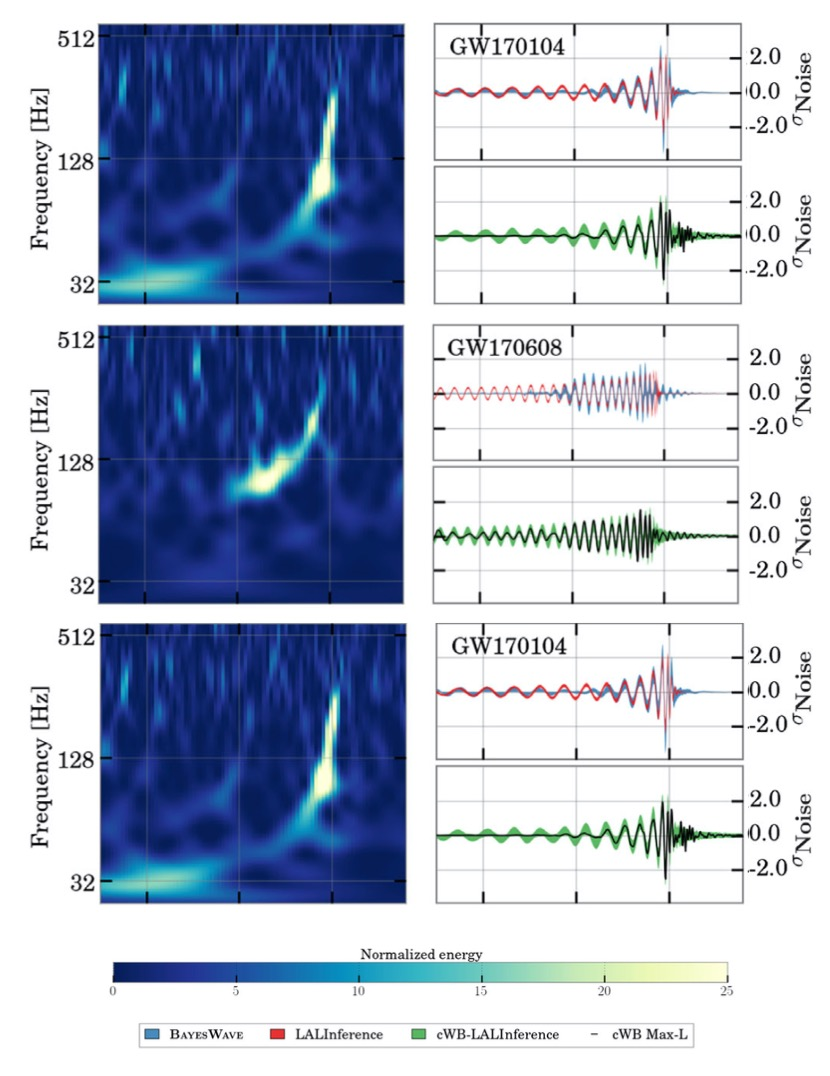
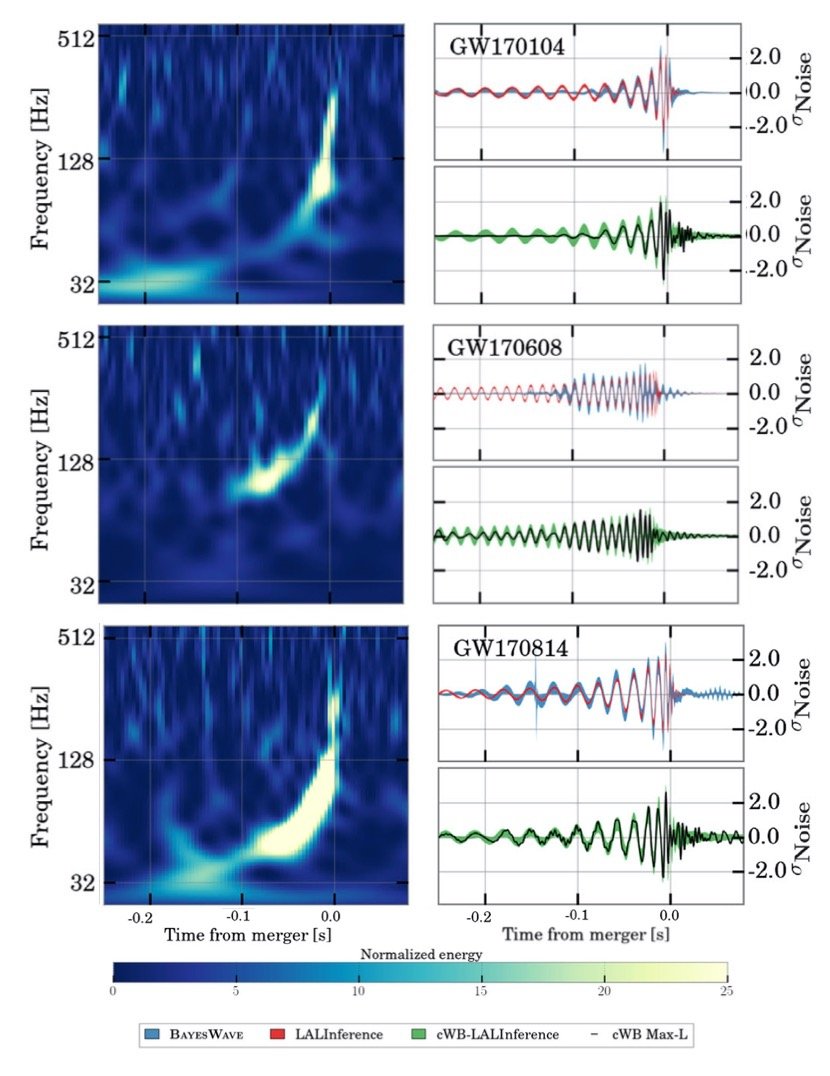
GW190521

Changed region(s): [[0.1205, 0.552, 0.994, 0.8894]]

diff --git a/thesis.tex b/thesis.tex
@@ -1611,7 +1611,7 @@ We are grateful for computational resources provided by Cardiff University, and 
 	ten BBH mergers \cite{14, 52, 58-60} and one BNS merger \cite{61}.  In addition, fourteen marginal triggers were also found \cite{13}.
 	Notable events in this catalog are the first observed event GW150914 \cite{52},
 	the first three-detector event GW170814 \cite{60} and the BNS
-	coalescence GW170817 \cite{61}, the first case in which electromagnetic counterparts to a GW event 
+	coalescence GW170817 \cite{62}, the first case in which electromagnetic counterparts to a GW event 
 	were observed \cite{15}.
         The analyses of O3 data is still in progress, but \fpg{...} events have already been announced.  These are: \fpg{...}.
 
@@ -1768,16 +1768,17 @@ Two more GW signals were detected during O1, and both were consistent with a BBH
 	In addition to the instrument upgrades, developments were also carried out on
 	the search algorithms.
  
-	Of the eight GW signals detected during O2 (GW170104, GW170608, GW170729, GW170809, GW170814, GW170817, GW170818 and GW170823), the five August events were localized by the three detector LHO, LLO and Virgo (HLV) network.  Additionally, GW170104, GW170814, GW170608, and GW170817 where published, in that order, as single events. \fpg{Qui dovresti citare i 4 papers.}  
+	Of the eight GW signals detected during O2 (GW170104, GW170608, GW170729, GW170809, GW170814, GW170817, GW170818 and GW170823), the five August events were localized by the three detector LHO, LLO and Virgo (HLV) network.  Additionally, GW170104, GW170814, GW170608, and GW170817 where published, in that order, as single events \cite{60,61,62,138}.   
 	In order to quantify the FAR with an accuracy that enabled the claim of confident detections, the O2 data was divided into periods of 5 days of two-detector cumulative coincident observing time.
 	This time, the searches targeted  detector-frame total masses from $2M_\odot$ to $500 M_\odot$, whereas the spin target space remained unchanged.
-
+	Since GW151226 is a low mass binary, the chirp  mass is well measured $8.9^{+0.3}_{-0.3} M_\odot$,
+	while for the higher mass system GW150914 is $28^{+2}_{-2}M_\odot$.
 \subsection{GW170104: a 50-Solar-Mass Binary Black Hole Coalescence}
 
 	The observation of GW170104 was made by the LIGO detectors, 
 	with a network SNR of 13 and a FAR of less than 1 in 70,000 years.
 	At the detection statistic value of GW170104, the background rate in both matched filter 
-	analyses is dwarfed by the signal rate, yielding a probility of astrophysical origin greater than $1 - (3 \times 10^{-5})$. \fpg{Citazioni.}
+	analyses is dwarfed by the signal rate, yielding a probility of astrophysical origin greater than $1 - (3 \times 10^{-5})$ \cite{60}. \fpg{Citazioni.}
 
 	The source of GW170104 is a BBH system with total mass of $\sim 50M_\odot$.  	
 	The inferred component masses are $31.2^{+8.4}_{-6.0}M_\odot$ and $19.4^{+5.3} _{-5.9}M_\odot$.
@@ -1851,7 +1852,7 @@ Two more GW signals were detected during O1, and both were consistent with a BBH
           \label{o2}
           \includegraphics[scale=0.45]{o2}
           \centering
-          \caption{Same as Fig.\,\ref{fig:o1} but for the O2 events: \fpg{Quali? Perch\'e 170104 appare due volte.}}
+          \caption{Same as Fig.\,\ref{fig:o1} but for the O2 events: GW170104, GW170608 and GW170814.\fpg{Quali? Perch\'e 170104 appare due volte.}}
           \label{fig:o2}
         \end{figure}
 
@@ -1889,7 +1890,7 @@ Two more GW signals were detected during O1, and both were consistent with a BBH
 	that may arise for long GRB triggers.
 	This unmodelled search also recovered GW170817, with a $p$-value of $1.3\times 10^{-5} (4.2\sigma)$.
 
-	The observation with excellent localization of GW170817 triggered a hugh electromagnetic follow-up campaign \fpg{Cita il 170817 multimessenger paper} which produced observations across the whole electromagnetic spectrum.
+	The observation with excellent localization of GW170817 triggered a huge electromagnetic follow-up campaign \cite{194} which produced observations across the whole electromagnetic spectrum.
 	This captured an infrared transient (kilonova), which allowed for the identification of the host galaxy of the source 
 	and is associated with the aftermath of the BNS merger.
 	Delayed X-ray and radio counterparts that provide information on the environment of the binary where also registered.
@@ -2035,6 +2036,29 @@ Two more GW signals were detected during O1, and both were consistent with a BBH
 	on the number of NS that collide in a volume of the universe every year, bringing this to $250–2810 Gpc^{-3}\,$yr$^{-1}$ \cite{62}.
 
 \subsection{GW190521}
+	The BBH that produced the GW event GW190521 was the most massive and energetic BH merger yet,
+	with unprecedented and unexpected masses of $85^{+21}_{-14} M_{\odot}$ and  $66^{+17}_{-18} M_{\odot}$.
+	The fact that the primary BH mass is $85 M_{\odot}$ is highly unusual, 
+	since this is in conflicts with current models of stellar evolution:
+	based on the theoretical understanding of the internal workings of massive stars, 
+	and how BH form, it predicts that we should expect to find BH
+	with either less than 65 solar masses or more than $120 M_{\odot}$, but none in between.
+	The kinds of stars that would give rise to BH in this gap would not follow the usual “stellar mass” BH route,
+	going supernova, and thus would not end up as BH. 
+	Rather, such stars would become unstable and get rid of a significant chunk of their mass. 
+	Only then would they go supernova, but the result would be a BH of less than $65 M_\odot$.
+	GW190521 suggests that either stars can form high mass black holes, 
+	or that this is an example of "hierarchical merger," 
+	meaning the two progenitor BHs were themselves each the result of a previous merger before they found each other and merged.
+	This multiple merger scenario requires that BHs form in special environments 
+	where there are enough other BH nearby for multiple merger events to occur,
+	such as dense clusters of stars or the disks of active galactic nuclei. 
+	Another groundbreaking discovery that came from this event was the proof that intermediate-mass BH do exist,
+	since the post-merger remnant BH mass is $142^{+28}_{-16} M_\odot$, 
+	falling right into the mass gap between stellar-mass and supermassive BH.
+	This event was detected with a three-detector network signal-to-noise ratio of 14.7, 
+	and it is also the farthest detection so far with a luminosity distance of $5.3^{+2.4}_{-2.6}$Gpc,
+	corresponding to an epoch when the universe was only about half its present age $z \sim 0.8$.
 
 \subsection{GW190814}
 
@@ -2505,7 +2529,7 @@ EM-bright     & EM-bright  & EM-dim  & EM-dim  \\\hline
 	\bibitem{135} J. S. Vink, New Astron. Rev. 52, 419 (2008).
 	\bibitem{136} B. P. Abbott et al. (LIGO Scientific Collaboration, Virgo Collaboration), Phys. Rev. X 6, 041015 (2016), arXiv:1606.04856 [gr-qc]. 
 	\bibitem{137} B. P. Abbott et al. (LIGO Scientific Collaboration, Virgo Collaboration), Astrophys. J. Lett. 833, L1 (2016), arXiv:1602.03842 [astro-ph.HE]. 
-	\bibitem{138} Cannon et al. 2015; Messick et al. 2017; Adams et al. 2016; Nitz et al. 2017b.
+	\bibitem{138} Cannon et al. 2015; Messick et al. 2017; Adams et al. 2016; Nitz et al. GW170608: Observation of a 19 Solar-mass Binary Black Hole Coalescence (2017b).
 	\bibitem{139} Racine 2008; Ajith et al. 2011.
 	\bibitem{140} Abbott et al. 2016e.
 	\bibitem{141} Lattimer and Prakash 2016.
@@ -2561,6 +2585,7 @@ EM-bright     & EM-bright  & EM-dim  & EM-dim  \\\hline
 	\bibitem{191} L. London, D. Shoemaker, and J. Healy, Phys. Rev. D 90, 124032 (2014). 
 	\bibitem{192} C. K. Mishra, A. Kela, K. G. Arun, and G. Faye, Phys. Rev. D 93, 084054 (2016).
 	\bibitem{193} N. J. Cornish and T. B. Littenberg. BayesWave: Bayesian Inference for Gravitational Wave Bursts and Instrument Glitches. Classical Quantum Gravity 32, 135012 (2015). 
+	\bibitem{194} LIGO Scientific Collaboration, Virgo Collaboration, Fermi GBM, INTEGRAL, IceCube Collaboration, AstroSat Cadmium Zinc Telluride Imager Team, IPN Collaboration, The Insight-Hxmt Collaboration, ANTARES Collaboration, The Swift Collaboration, AGILE Team, The 1M2H Team, The Dark Energy Camera GW-EM Collaboration, the DES Collaboration, The DLT40 Collaboration, GRAWITA: GRAvitational Wave Inaf TeAm, The Fermi Large Area Telescope Collaboration, ATCA: Australia Telescope Compact Array, ASKAP: Australian SKA Pathfinder, Las Cumbres Observatory Group, OzGrav, DWF (Deeper, Wider, Faster Program), AST3, CAASTRO Collaborations, The VINROUGE Collaboration, MASTER Collaboration, J-GEM, GROWTH, JAGWAR, Caltech- NRAO, TTU-NRAO, NuSTAR Collaborations, Pan-STARRS, The MAXI Team, TZAC Consortium, KU Collaboration, Nordic Optical Telescope, ePESSTO, GROND, Texas Tech University, SALT Group, TOROS: Transient Robotic Observatory of the South Collaboration, The BOOTES Collaboration, MWA: Murchison Widefield Array, The CALET Collaboration, IKI-GW Follow-up Collaboration, H.E.S.S. Collaboration, LOFAR Collaboration, LWA: Long Wavelength Array, HAWC Collaboration, The Pierre Auger Collaboration, ALMA Collaboration, Euro VLBI Team, Pi of the Sky Collaboration, The Chandra Team at McGill University, DFN: Desert Fireball Network, ATLAS, High Time Resolution Universe Survey, RIMAS, RATIR, SKA South Africa/MeerKAT. Multi-messenger Observations of a Binary Neutron Star Merger.
 \end{thebibliography}
 
 \printbibliography
